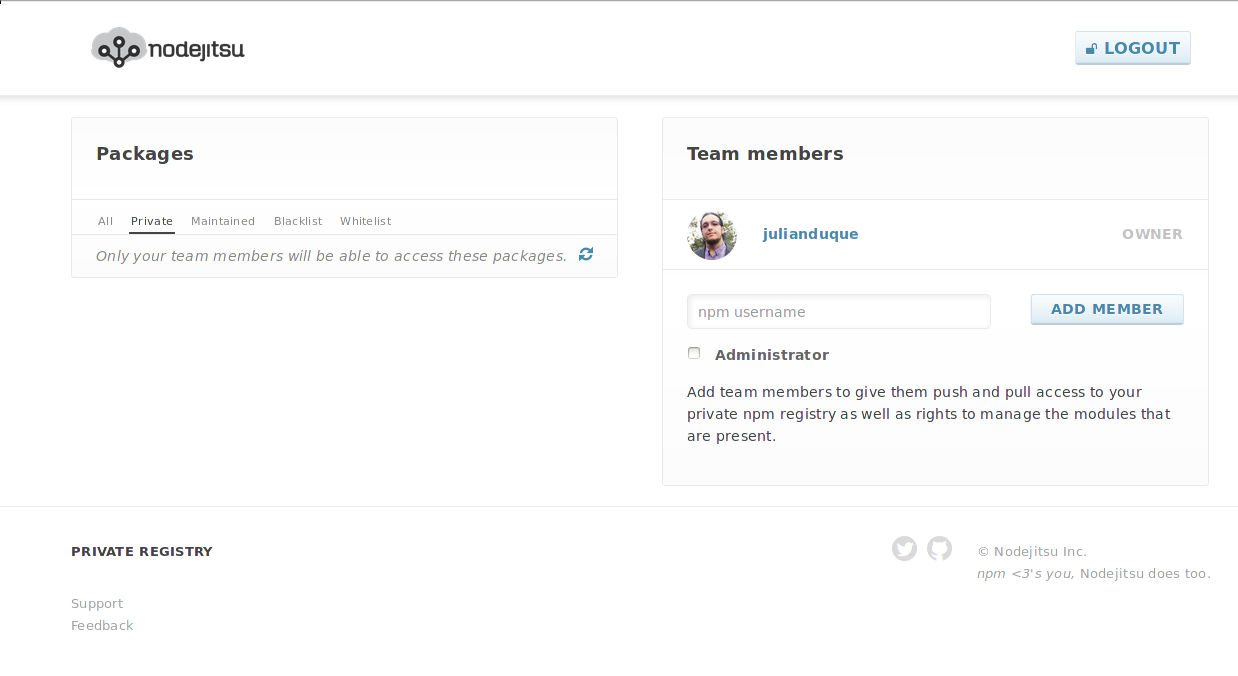
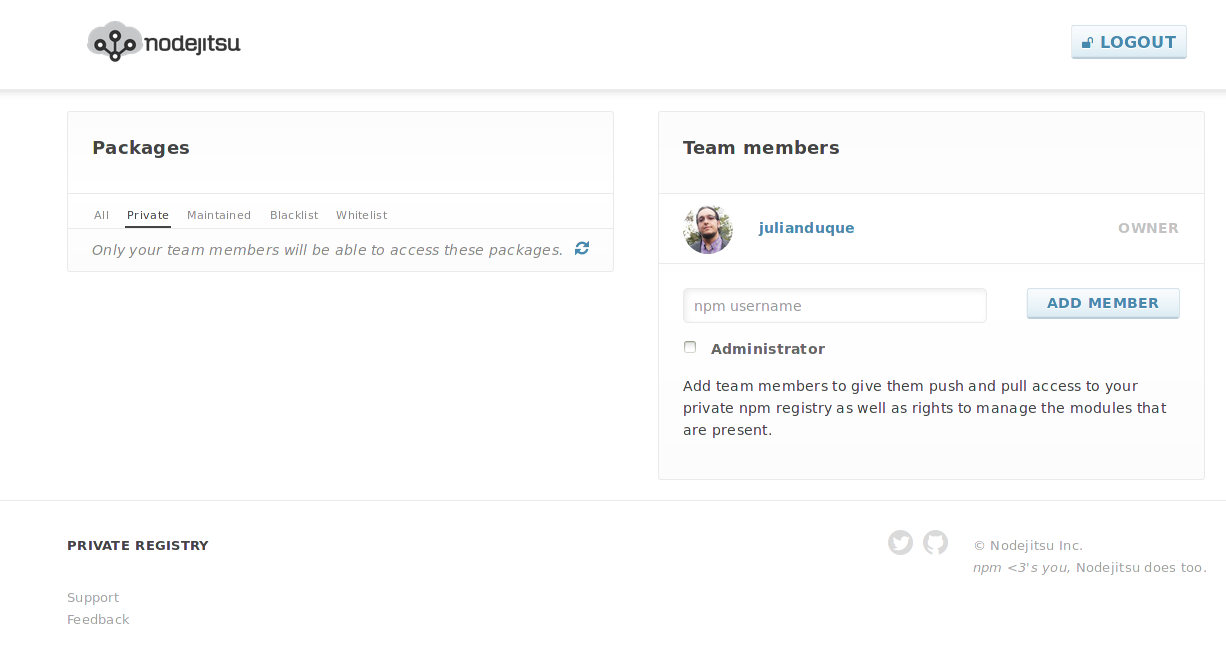
[docs] Improve and update screenshots

diff --git a/content/npm/web.md b/content/npm/web.md
@@ -1,38 +1,82 @@
-# Hosted private npm Web Interface
+# Hosted Private npm - Web Interface
+
+* [Package Management](#package-management)
+* [User Management](#user-management)
 
 You can login to your Web Interface in `http://your-subdomain.npm.nodejitsu.com` with your `npm` credentials.
 
-![Login](https://raw2.github.com/nodejitsu/handbook/master/resources/npm/login.png)
+![Login](../../resources/npm/login.png)
+
 
 ## Dashboard
 
-![Dashboard](https://raw2.github.com/nodejitsu/handbook/master/resources/npm/dashboard.png)
+![Dashboard](../../resources/npm/dashboard.png)
 
-## Packages Policy
+
+## Package Management
 
 ### Private
 Lists the private packages published to your npm, these are only visible by your team members and are always proxied to your private CouchDB server.
 
-### Whitelist
-Only these packages (and all private npm packages) will be permitted from the public npm registry. *It is possible for a package to be both private and blacklisted. This is how you can take ownership over a given module.*
+### Maintained
+All the packages maintained by your team members.
 
 ### Blacklist
 These packages are explicitly forbidden to be retrieved from the public npm registry.
 
-### Maintained
-All the packages maintained by your team members.
+#### Add Package to Blacklist
+If you want to Blacklist a package just write down the package name and click on `Add Package`.
+![Add Blacklist](../../resources/npm/add_blacklist.png)
 
-## Team Members
+
+#### Remove Package from Blacklist
+To remove a package from Blacklist just click on the `(x)` button right to the package name.
+![Blacklisted](../../resources/npm/package_blacklisted.png)
+
+
+### Whitelist
+Only these packages (and all private npm packages) will be permitted from the public npm registry. *It is possible for a package to be both private and blacklisted. This is how you can take ownership over a given module.*
+
+*Admin Whitelist packages works the same as Blacklist.*
+
+## User Management
 
 ### Add member
-
 Just write down the public npm username and click on `Add member`.
+![Add member](../../resources/npm/add_member.png)
 
-![Add member](https://raw2.github.com/nodejitsu/handbook/master/resources/npm/add_member.png)
 
 ### Remove member
-To remove a user from your team, click on the `(x)` button right their username.
+To remove a user from your team, click on the settings icon.
 
-![List members](https://raw2.github.com/nodejitsu/handbook/master/resources/npm/members.png)
+![Settings Icon](../../resources/npm/user_settings.png)
+
+A settings panel will appear, then click on the `Delete` button and it's done.
+
+![Settings](../../resources/npm/user_settings_expanded.png)
+
+### Add Administrator
+You can add an Administrator by clicking on the `Add Admin` button on the user settings panel shown above.
+
+![Admin Added](../../resources/npm/user_is_admin.png)
+
+Or by checking the `Administrator` property when adding a new member to your team.
+
+![Add Admin](../../resources/npm/add_admin.png)
+
+Now you can see the new added member with `Admin` role.
+
+![Admin Added](../../resources/npm/added_admin.png)
+
+### Remove Administrator
+If you want to remove the `Admin` role just click on the user settings icon.
+
+![](../../resources/npm/remove_admin_settings.png)
+
+And then click on the `Remove Admin` button.
+
+![](../../resources/npm/remove_admin_button.png)
+
+Thats how you admin your team members, easy right?
 
 [meta:title]: <> (Web Interface)

diff --git a/content/npm/index.md b/content/npm/index.md
@@ -2,9 +2,9 @@
 
 * [Getting Started](#getting-started)
 * [Web Interface][web-interface]
-* [User management][user-management]
-* [Package management][package-management]
-* [Troubleshooting][troubleshooting]
+	* [User management][user-management]
+	* [Package management][package-management]
+* [Command Line Interface][cli]
 * [FAQ][faq]
 
 <hr>
@@ -66,7 +66,10 @@ Requests can be made against your private npm in two ways:
   $ npm publish --reg https://registry.npmjs.org
 ```
 
-### 3. Login to the web interface
+More information available at the [Command Line Interface Documentation][cli]
+
+
+### 3. Login to the Web Interface
 
 ```
 http://your-subdomain.npm.nodejitsu.com
@@ -97,9 +100,9 @@ The benefits of using `publishConfig` is that it avoids accidental publishes to 
 
 
 [web-interface]: /npm/web
-[user-management]: /npm/users
-[package-management]: /npm/packages
-[troubleshooting]: /npm/troubleshooting
+[user-management]: /npm/web#user-management
+[package-management]: /npm/web#package-management
+[cli]: /npm/cli
 [faq]: /npm/faq
 
 [meta:title]: <> (Hosted Private npm)

diff --git a/content/npm/cli.md b/content/npm/cli.md
@@ -1,0 +1,3 @@
+
+
+[meta:title]: <> (Command Line Interface)
